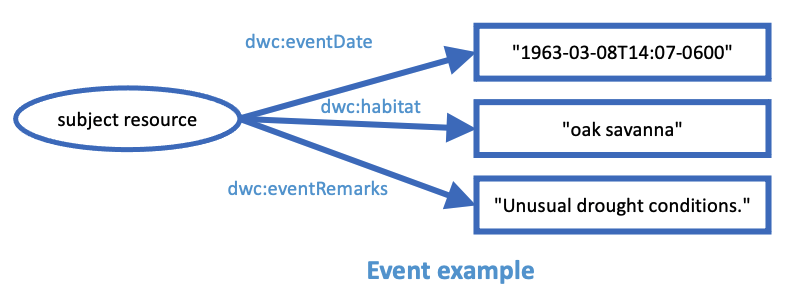
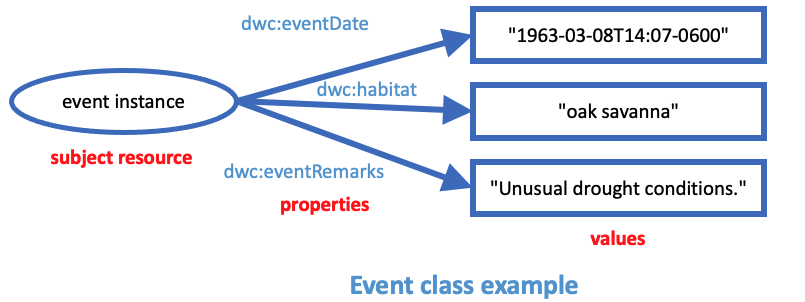
update diagram and text

Changed region(s): [[0.0, 0.0, 0.9627, 0.8344], [0.4348, 0.8642, 0.7143, 0.9834], [0.8385, 0.3874, 0.8696, 0.4172]]

diff --git a/complex_values/serialization_strategies.md b/complex_values/serialization_strategies.md
@@ -2,17 +2,21 @@
 
 Steve Baskauf - 2023-05-02
 
-# Rationale
+# Background
 
 The primary use of TDWG vocabularies is to facilitate data sharing. At the "bag of terms" level, TDWG vocabularies provide property and controlled value terms that ensure a common understanding of the meaning of the atomic data being shared. Individuals or organizations may use TDWG vocabulary terms to organize their internal databases in any way that they see fit. However, in order to facilitate interoperability, it is critical that during data sharing both the sender and receiver have a mutual understanding of how the data will be structured so that it is clear to which entities the properties and their values apply. 
 
-In current (2023) practice, there are four main forms of serialization that are commonly used to transmit data. The two most common are probably tabular data in the form of delineated text (e.g. Simple Darwin Core and Darwin Core Archives) and JSON as delivered via APIs. Another significant form of serialization is XML (e.g. ABCD, Plinian Core, and others). Less common but important in Linked Data efforts is RDF in its various serializations (e.g. Turtle and JSON-LD). 
+In current (2023) practice, there are four main forms of serialization that are commonly used to transmit data. The two most common are probably **tabular data** in the form of delineated text (e.g. Simple Darwin Core and Darwin Core Archives) and **JSON** as delivered via APIs. Another significant form of serialization is **XML** (e.g. ABCD, Plinian Core, and others). Less common but important in Linked Data efforts is **RDF** in its various serializations (e.g. Turtle and JSON-LD). 
+
+## Interpretation of semantics and the structure of data in common serializations
 
 Of these four serialization types, RDF is probably the most self-descriptive, since by design it provides both structure and context to the data. XML can also be designed to be self-descriptive since it is designed to encode structure and schemas can be used to provide context. Generic JSON served via APIs may be structured in complex ways, but it is not self-descriptive and requires a human-readable API guide in order to enable developers of consuming applications to be clear about how to interpret the names (keys) and structure of the provided data. 
 
 Unfortunately, the most commonly used serialization (tabular data) is potentially the least clear about interpretation of its column headers as well as the intended relationship structure when data describing several entities are flattened into a single table. There are various attempts to clarify the semantics encoded by tabular data, including the meta.xml file of Darwin Core Archives, the JSON schema file of Frictionless Data Packages, and components of the W3C Tabular Data on the Web specifications. 
 
 Ideally, data could be translated between any of these serializations without loss of semantics or structure. In other words, data provided in any of these serialization types should result in the same abstract graph of property relationships among entities. 
+
+## Purpose
 
 The purpose of this document is to describe the issues related to serializing complex values of TDWG properties for the two least self-descriptive serialization types: tabular data and JSON served by APIs. 
 
@@ -24,7 +28,7 @@ The following graph illustrates the abstract relationships between a subject ins
 
 # Tabular Data
 
-The simplest interpretation of tabular data is that a table represents a class, rows represent instances (or individuals) of that class, and that columns represent properties appropriate for instances of the class. The values in table cells represent the values of the column property for the row individual (the subject resource).
+The simplest interpretation of tabular data is that a table represents a class, rows represent instances (or individuals) of that class, and that columns represent properties appropriate for instances of the class. The contents of table cells represent the values of the column property for the row individual (the subject resource).
 
 | eventDate | habitat | eventRemarks |
 | ------------- | ----------- | ---------------- |
@@ -33,7 +37,26 @@ The simplest interpretation of tabular data is that a table represents a class, 
 
 ## Issues
 
-x
+In the example above, each property has only a single value. However, in many cases multiple values are appropriate for a property. The current convention in TDWG is to use "space pipe space" (` | `) to separate the values within a cell. Here's an example:
+
+| recordedBy | preparations | disposition |
+| ------------- | ----------- | ---------------- |
+| Achmed Khan | skull \| skin | in collection |
+
+1\. Is it appropriate to use the "space pipe space" convention for multiple IRI values for `dwciri:` terms. Here is an example:
+
+| dwciri:recordedBy | preparations | disposition |
+| ------------- | ----------- | ---------------- |
+| https://orcid.org/0000-0003-1715-4850 \| https://orcid.org/0000-0003-4365-3135 | herbarium sheet | in collection |
+
+Problems:
+- How do we differentiate between `dwc:recordedBy` and `dwciri:recordedBy`? Require namespace abbreviations for column headers in all cases? ... only in some cases (e.g. when using `dwciri:`)?
+- A major point of the `dwciri:` terms is to provide data that can be consumed by a machine without additional processing. The "space pipe space" approach implies parsing and string processing. Would it be better to use a JSON array as the value so that the multiple values could be directly consumed and converted to a data structure (e.g. into a Python list using `json.loads`)? That would look like this:
+
+| dwciri:recordedBy | preparations | disposition |
+| ------------- | ----------- | ---------------- |
+| \["https://orcid.org/0000-0003-1715-4850", "https://orcid.org/0000-0003-4365-3135"\] | herbarium sheet | in collection |
+
 
 ## Vanilla JSON
 
@@ -52,4 +75,24 @@ The simplest interpretation of JSON is that JSON objects represent instances (or
 
 ## Issues
 
-x
+When multiple values are present in JSON, they can be represented by an array. Here's an example:
+
+```
+  {
+  "recordedBy": "Achmed Khan",
+  "preparations": [
+    "skull",
+    "skin"
+    ],
+  "disposition": "in collection"
+  }
+```
+
+
+
+----------
+
+eBird has multiple values for
+eco:samplingEffortValue and eco:samplingEffortUnit
+
+targetTaxonomicScope etc.
